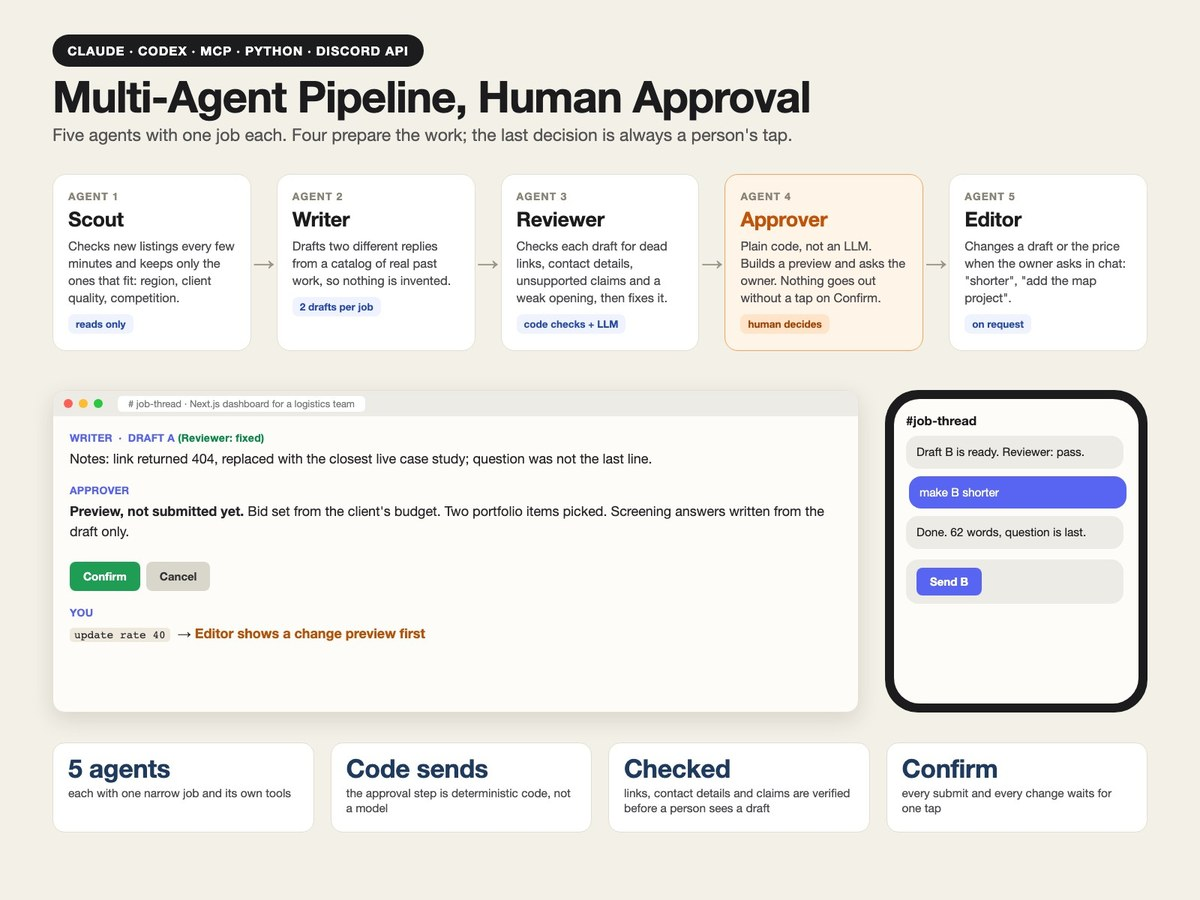
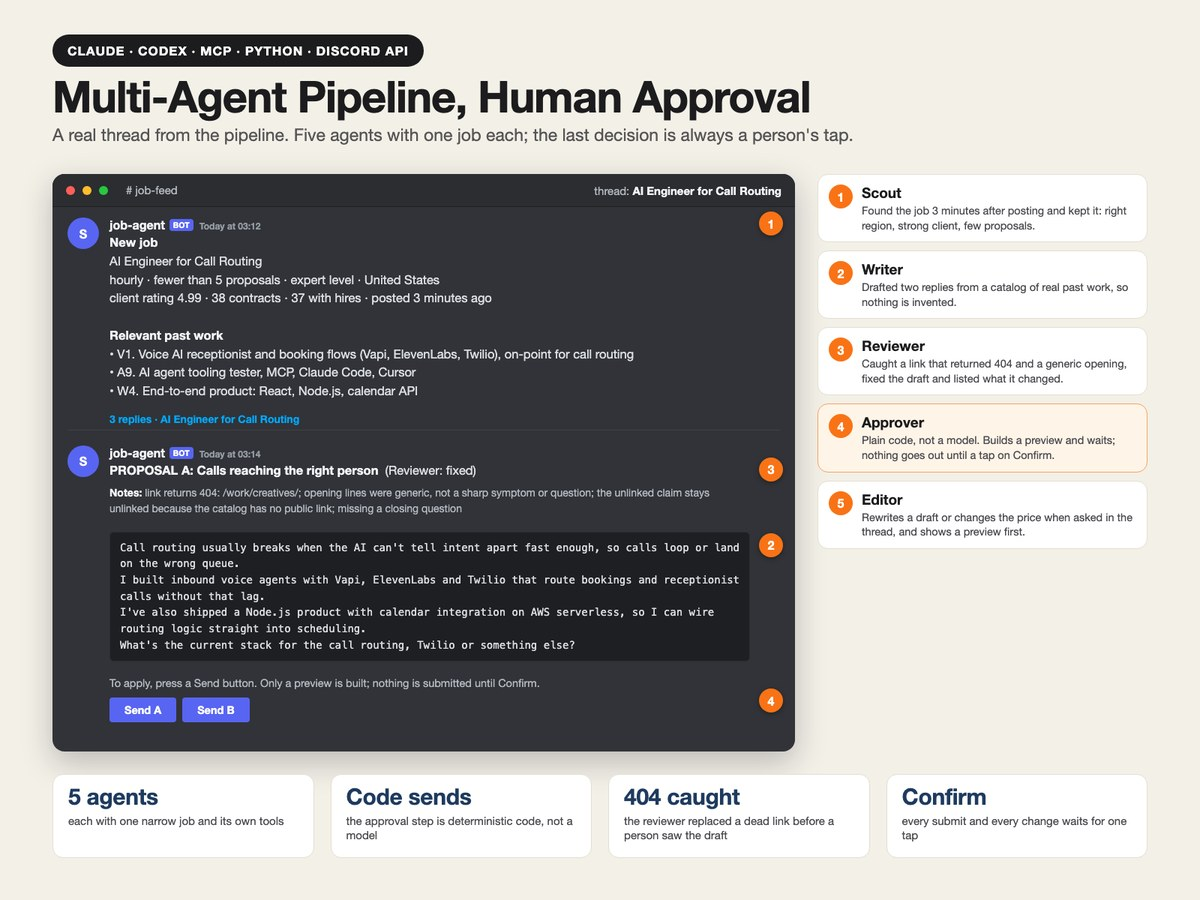
Multi-agent case study: poster built from a real pipeline thread

diff --git a/case-studies/multi-agent-pipeline-with-human-approval/index.html b/case-studies/multi-agent-pipeline-with-human-approval/index.html
@@ -57,7 +57,7 @@
     <p class="content-excerpt">Five agents with one narrow job each. One finds requests that fit, one drafts replies from a catalog of real work, one checks the drafts, plain code asks the owner to approve on a phone, and one edits on request. Nothing goes out without a tap.</p>
     <div class="tag-row"><span>multi-agent</span><span>claude</span><span>codex</span><span>mcp</span><span>python</span><span>human-in-the-loop</span></div>
     <article class="content-article">
-      <figure style="margin:22px 0"><img src="/assets/imgs/case-studies/multiagent/multiagent-poster.jpg" alt="Five agents: scout, writer, reviewer, approver and editor, with a chat thread and a phone showing the approval step" loading="lazy" style="width:100%;border-radius:12px"><figcaption style="color:#64748b;font-size:14px;margin-top:6px">Names and figures shown are sample data.</figcaption></figure>
+      <figure style="margin:22px 0"><img src="/assets/imgs/case-studies/multiagent/multiagent-poster.jpg" alt="Five agents: scout, writer, reviewer, approver and editor, shown on a real chat thread with the Send buttons" loading="lazy" style="width:100%;border-radius:12px"><figcaption style="color:#64748b;font-size:14px;margin-top:6px">A real thread from the pipeline, copied from the bot's own posts. The client is not named.</figcaption></figure>
       <h2>What it is</h2>
       <p>My own working pipeline for handling inbound work requests. One big prompt kept doing everything badly, so I split it into five agents that each do one job and hand over a checked result. A person stays in charge of the only step that matters: sending.</p>
       <h2>The five agents</h2>

diff --git a/portfolio/multi-agent-pipeline-with-human-approval/index.html b/portfolio/multi-agent-pipeline-with-human-approval/index.html
@@ -46,7 +46,7 @@
     <p class="content-excerpt">Five agents with one narrow job each. One finds requests that fit, one drafts replies from a catalog of real work, one checks the drafts, plain code asks the owner to approve on a phone, and one edits on request. Nothing goes out without a tap.</p>
     <div class="tag-row"><span>multi-agent</span><span>claude</span><span>codex</span><span>mcp</span><span>python</span><span>human-in-the-loop</span></div>
     <article class="content-article">
-      <figure style="margin:22px 0"><img src="/assets/imgs/case-studies/multiagent/multiagent-poster.jpg" alt="Five agents: scout, writer, reviewer, approver and editor, with a chat thread and a phone showing the approval step" loading="lazy" style="width:100%;border-radius:12px"><figcaption style="color:#64748b;font-size:14px;margin-top:6px">Names and figures shown are sample data.</figcaption></figure>
+      <figure style="margin:22px 0"><img src="/assets/imgs/case-studies/multiagent/multiagent-poster.jpg" alt="Five agents: scout, writer, reviewer, approver and editor, shown on a real chat thread with the Send buttons" loading="lazy" style="width:100%;border-radius:12px"><figcaption style="color:#64748b;font-size:14px;margin-top:6px">A real thread from the pipeline, copied from the bot's own posts. The client is not named.</figcaption></figure>
       <h2>What it is</h2>
       <p>My own working pipeline for handling inbound work requests. One big prompt kept doing everything badly, so I split it into five agents that each do one job and hand over a checked result. A person stays in charge of the only step that matters: sending.</p>
       <h2>The five agents</h2>
